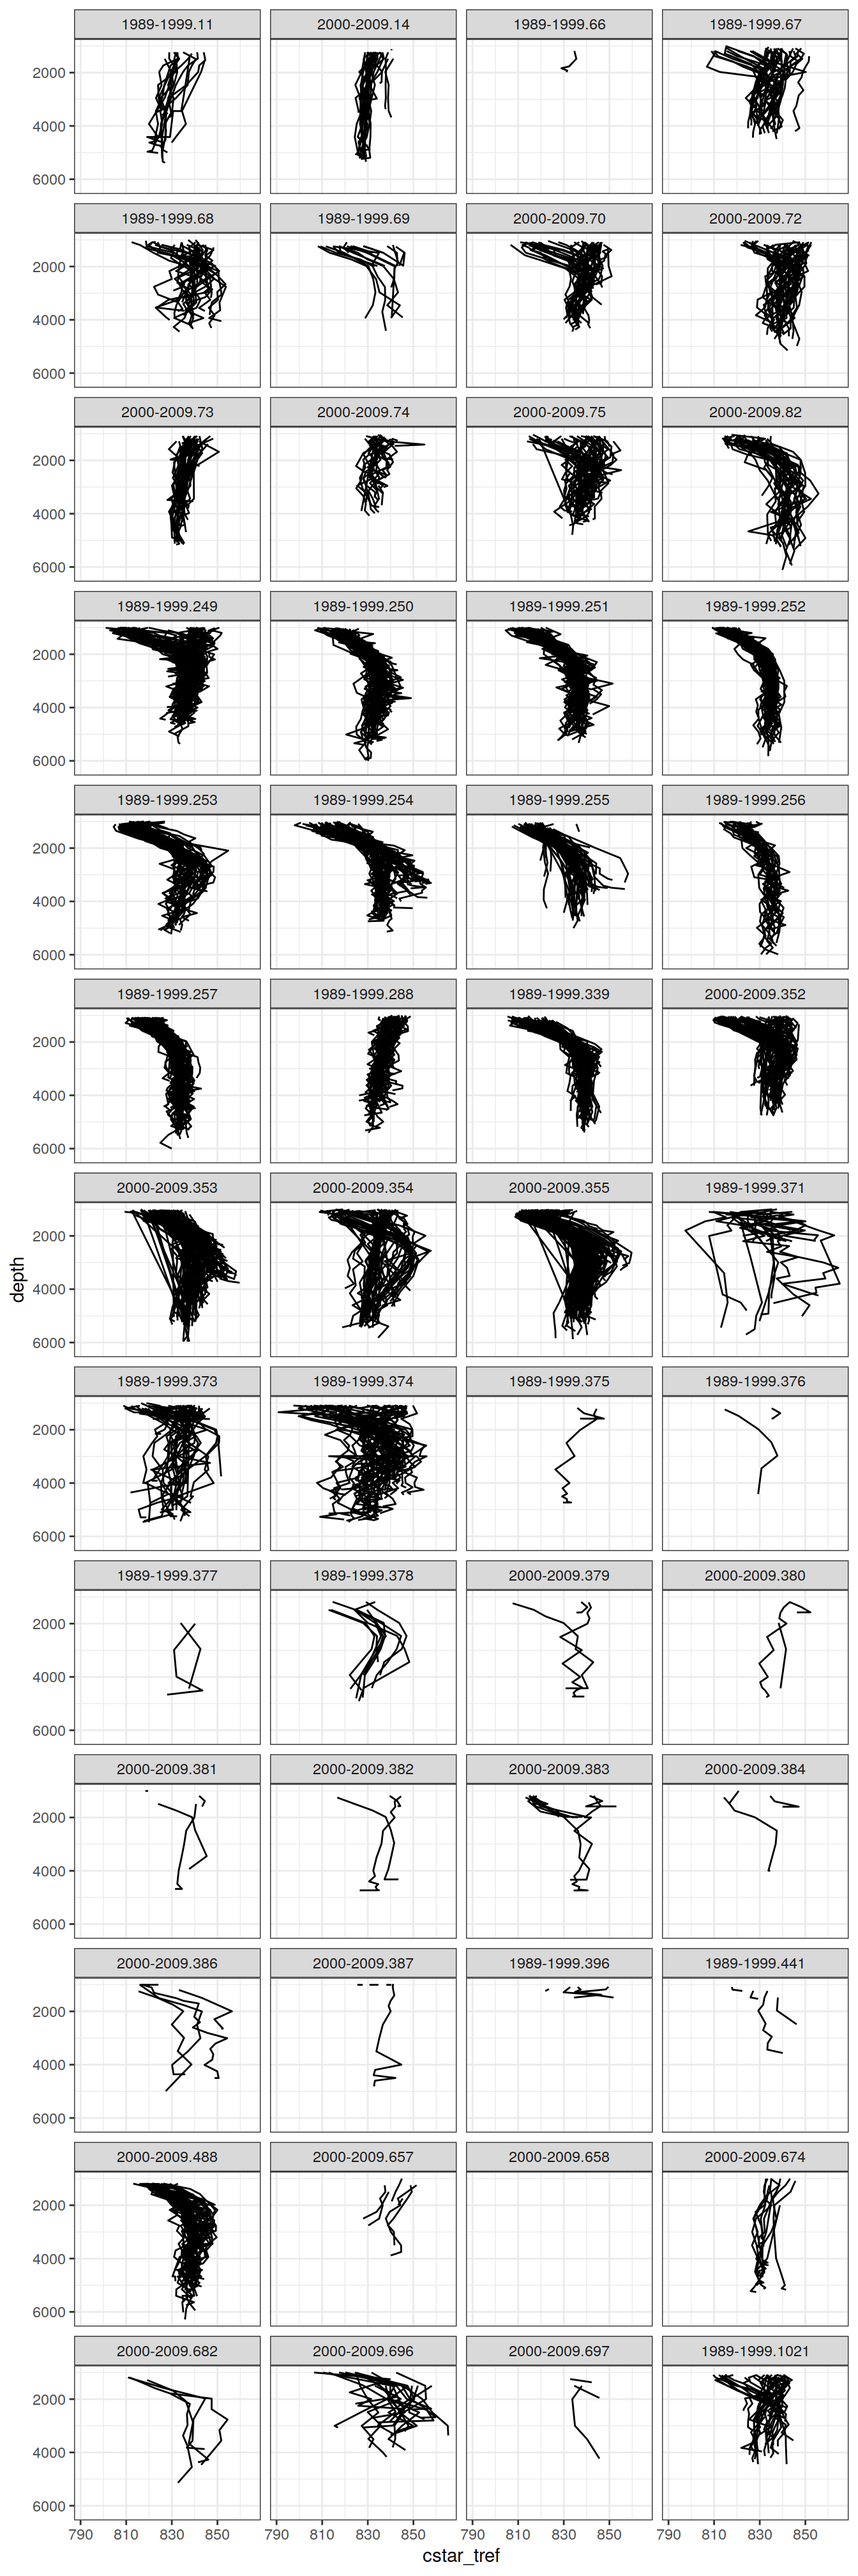
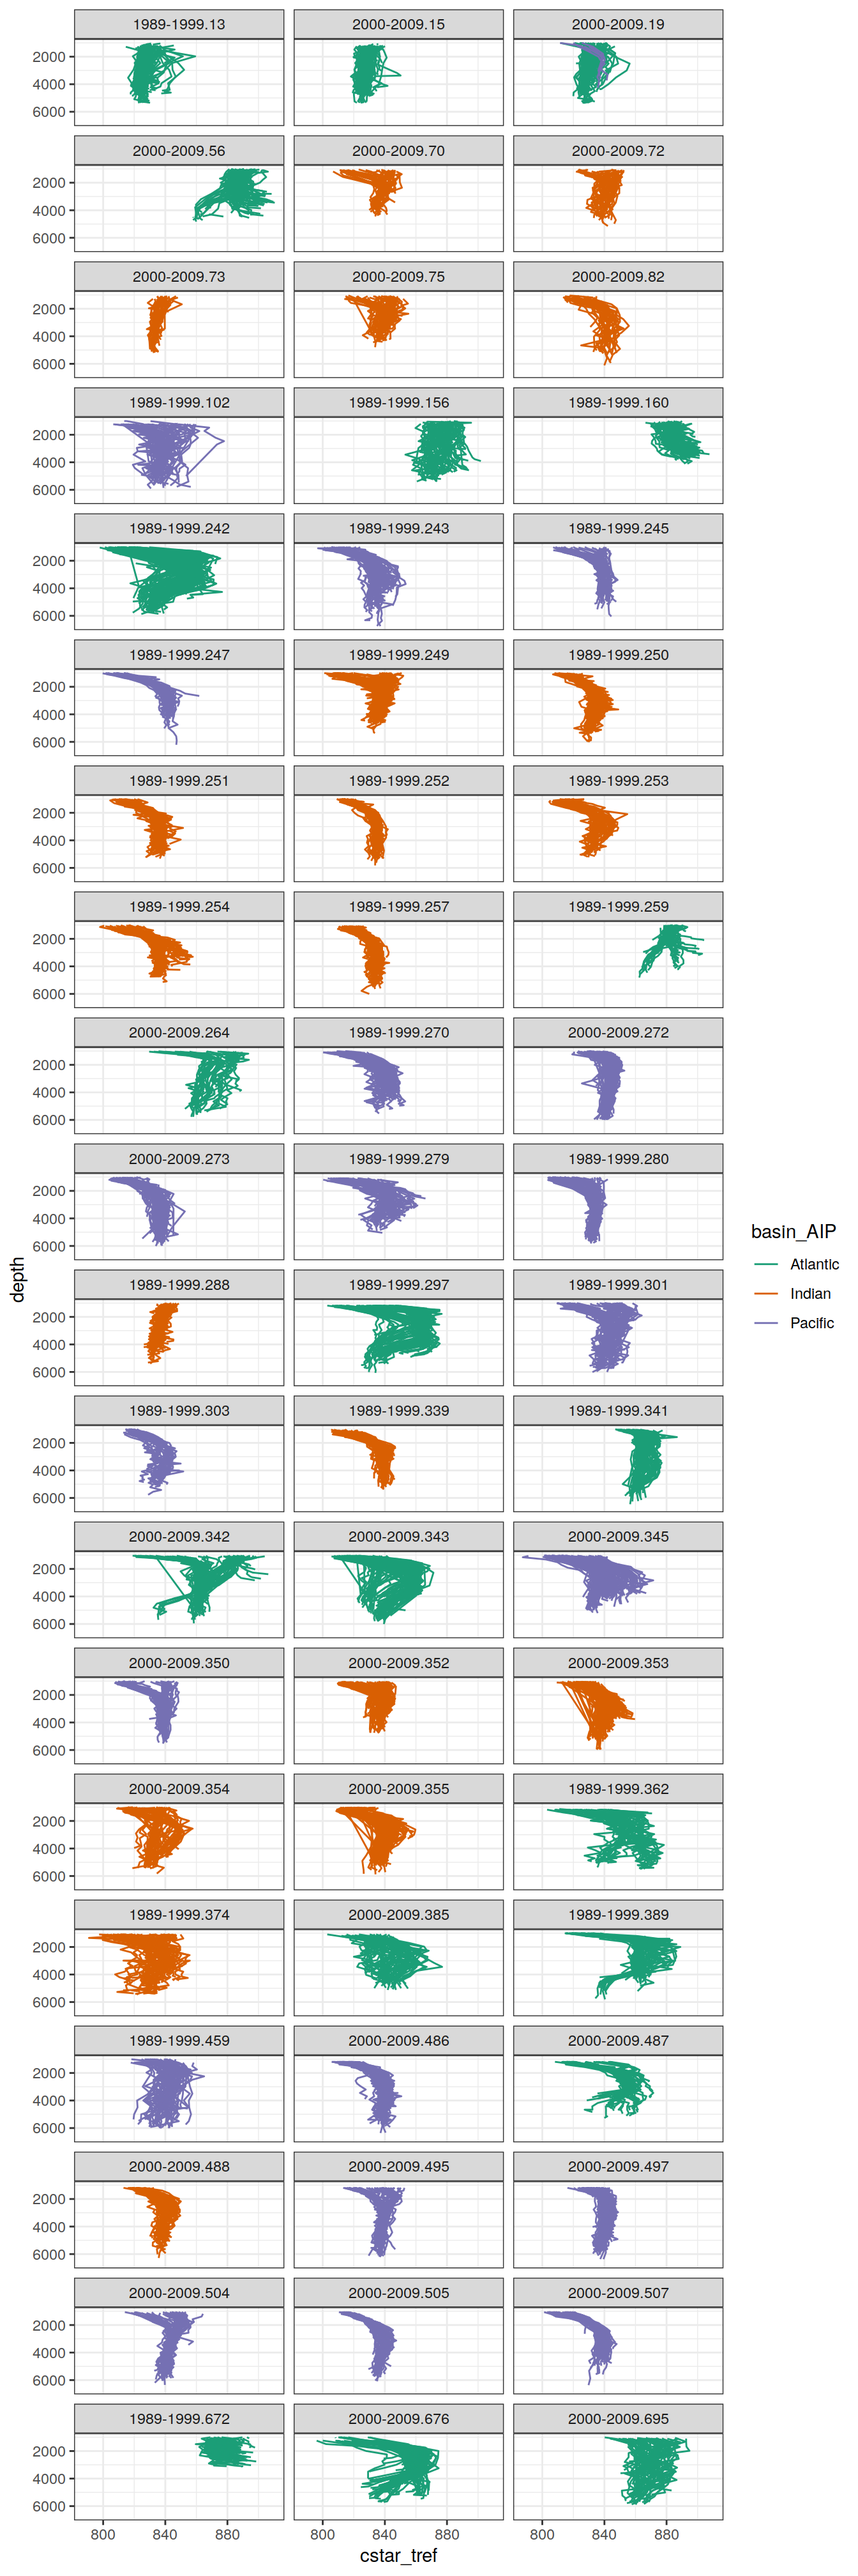
Build site.

diff --git a/docs/eMLR_data_preparation.html b/docs/eMLR_data_preparation.html
@@ -577,16 +577,16 @@ This reproducible <a href="http://rmarkdown.rstudio.com">R Markdown</a> analysis
 <div class="panel panel-default">
 <div class="panel-heading">
 <p class="panel-title">
-<a data-toggle="collapse" data-parent="#workflowr-checks" href="#strongRepositoryversionstrongahrefhttpsgithubcomjensdanielmuelleremlrobsvXXXtreefc1d8fd82f664b92319eb017b6a172c53e5c731dtargetblankfc1d8fda"> <span class="glyphicon glyphicon-ok text-success" aria-hidden="true"></span> <strong>Repository version:</strong> <a href="https://github.com/jens-daniel-mueller/emlr_obs_v_XXX/tree/fc1d8fd82f664b92319eb017b6a172c53e5c731d" target="_blank">fc1d8fd</a> </a>
+<a data-toggle="collapse" data-parent="#workflowr-checks" href="#strongRepositoryversionstrongahrefhttpsgithubcomjensdanielmuelleremlrobsvXXXtree213b967281146de1220fe9c0b08f3b5634dfdf78targetblank213b967a"> <span class="glyphicon glyphicon-ok text-success" aria-hidden="true"></span> <strong>Repository version:</strong> <a href="https://github.com/jens-daniel-mueller/emlr_obs_v_XXX/tree/213b967281146de1220fe9c0b08f3b5634dfdf78" target="_blank">213b967</a> </a>
 </p>
 </div>
[2 lines of base64/hex data omitted]
 <div class="panel-body">
 <p>
 Great! You are using Git for version control. Tracking code development and connecting the code version to the results is critical for reproducibility.
 </p>
 <p>
-The results in this page were generated with repository version <a href="https://github.com/jens-daniel-mueller/emlr_obs_v_XXX/tree/fc1d8fd82f664b92319eb017b6a172c53e5c731d" target="_blank">fc1d8fd</a>. See the <em>Past versions</em> tab to see a history of the changes made to the R Markdown and HTML files.
+The results in this page were generated with repository version <a href="https://github.com/jens-daniel-mueller/emlr_obs_v_XXX/tree/213b967281146de1220fe9c0b08f3b5634dfdf78" target="_blank">213b967</a>. See the <em>Past versions</em> tab to see a history of the changes made to the R Markdown and HTML files.
 </p>
 <p>
 Note that you need to be careful to ensure that all relevant files for the analysis have been committed to Git prior to generating the results (you can use <code>wflow_publish</code> or <code>wflow_git_commit</code>). workflowr only checks the R Markdown file, but you know if there are other scripts or data files that it depends on. Below is the status of the Git repository when the results were generated:
@@ -633,6 +633,40 @@ Message
 </tr>
 </thead>
 <tbody>
+<tr>
+<td>
+Rmd
+</td>
+<td>
+<a href="https://github.com/jens-daniel-mueller/emlr_obs_v_XXX/blob/213b967281146de1220fe9c0b08f3b5634dfdf78/analysis/eMLR_data_preparation.Rmd" target="_blank">213b967</a>
+</td>
+<td>
+jens-daniel-mueller
+</td>
+<td>
+2021-11-05
+</td>
+<td>
+plotted C* gamma slab maps
+</td>
+</tr>
+<tr>
+<td>
+html
+</td>
+<td>
+<a href="https://rawcdn.githack.com/jens-daniel-mueller/emlr_obs_v_XXX/4132be4938e3f277cce6492052d876fde6f74780/docs/eMLR_data_preparation.html" target="_blank">4132be4</a>
+</td>
+<td>
+jens-daniel-mueller
+</td>
+<td>
+2021-11-05
+</td>
+<td>
+Build site.
+</td>
+</tr>
 <tr>
 <td>
 Rmd
@@ -15748,37 +15782,153 @@ rm(GLODAP_grid)</code></pre>
 <h1 number="7"><span class="header-section-number">7</span> C* distributions</h1>
 <div id="profiles" class="section level2" number="7.1">
 <h2 number="7.1"><span class="header-section-number">7.1</span> Profiles</h2>
-<pre class="r"><code>GLODAP_profiles &lt;- GLODAP %&gt;% 
-  filter(basin_AIP == &quot;Indian&quot;,
-         depth &gt; 1000,
+<pre class="r"><code>GLODAP_profiles_IO_sub &lt;- GLODAP %&gt;% 
+  filter(depth &gt; 1000,
          data_source == &quot;obs&quot;) %&gt;% 
-  arrange(cruise, station, depth)
+  count(cruise, basin_AIP, era) %&gt;% 
+  arrange(-n) %&gt;%
+  group_by(basin_AIP, era) %&gt;% 
+  slice_max(n, n = 10) %&gt;% 
+  ungroup() %&gt;% 
+  pull(cruise)
 
-# GLODAP_profiles %&gt;% 
-#   count(cruise, station, depth, cast) %&gt;% 
-#   filter(n &gt; 1)
+GLODAP_profiles &lt;- GLODAP %&gt;%
+  filter(data_source == &quot;obs&quot;,
+         depth &gt; 1000) %&gt;%
+  filter(cruise %in% GLODAP_profiles_IO_sub)
+
+rm(GLODAP_profiles_IO_sub)
 
 GLODAP_profiles %&gt;%
   arrange(depth, station) %&gt;%
   ggplot(aes(cstar_tref, depth,
-             group = interaction(station))) +
-  scale_color_discrete(guide = &quot;none&quot;) +
+             group = interaction(station),
+             col = basin_AIP)) +
+  scale_color_brewer(palette = &quot;Dark2&quot;) +
   geom_path() +
-  # geom_point() +
   scale_y_reverse() +
-  facet_wrap(~ interaction(era, cruise),
-             ncol = 4)</code></pre>
+  facet_wrap(~ interaction(era, cruise), ncol = 3)</code></pre>
 <p><img src="figure/eMLR_data_preparation.Rmd/cstar_profiles-1.png" width="672" style="display: block; margin: auto;" /></p>
+<p>
+<button type="button" class="btn btn-default btn-xs btn-workflowr btn-workflowr-fig" data-toggle="collapse" data-target="#fig-cstar_profiles-1">
+Past versions of cstar_profiles-1.png
+</button>
+</p>
+<div id="fig-cstar_profiles-1" class="collapse">
+<div class="table-responsive">
+<table class="table table-condensed table-hover">
+<thead>
+<tr>
+<th>
+Version
+</th>
+<th>
+Author
+</th>
+<th>
+Date
+</th>
+</tr>
+</thead>
+<tbody>
+<tr>
+<td>
+<a href="https://github.com/jens-daniel-mueller/emlr_obs_v_XXX/blob/4132be4938e3f277cce6492052d876fde6f74780/docs/figure/eMLR_data_preparation.Rmd/cstar_profiles-1.png" target="_blank">4132be4</a>
+</td>
+<td>
+jens-daniel-mueller
+</td>
+<td>
+2021-11-05
+</td>
+</tr>
+</tbody>
+</table>
+</div>
+</div>
 <pre class="r"><code>map +
   geom_tile(data = GLODAP_profiles %&gt;%
               distinct(lat, lon, era, cruise),
             aes(lon, lat)) +
   facet_wrap( ~ interaction(era, cruise),
-              ncol = 4)</code></pre>
+              ncol = 3)</code></pre>
 <p><img src="figure/eMLR_data_preparation.Rmd/cstar_profiles-2.png" width="672" style="display: block; margin: auto;" /></p>
+<p>
+<button type="button" class="btn btn-default btn-xs btn-workflowr btn-workflowr-fig" data-toggle="collapse" data-target="#fig-cstar_profiles-2">
+Past versions of cstar_profiles-2.png
+</button>
+</p>
+<div id="fig-cstar_profiles-2" class="collapse">
+<div class="table-responsive">
+<table class="table table-condensed table-hover">
+<thead>
+<tr>
+<th>
+Version
+</th>
+<th>
+Author
+</th>
+<th>
+Date
+</th>
+</tr>
+</thead>
+<tbody>
+<tr>
+<td>
+<a href="https://github.com/jens-daniel-mueller/emlr_obs_v_XXX/blob/4132be4938e3f277cce6492052d876fde6f74780/docs/figure/eMLR_data_preparation.Rmd/cstar_profiles-2.png" target="_blank">4132be4</a>
+</td>
+<td>
+jens-daniel-mueller
+</td>
+<td>
+2021-11-05
+</td>
+</tr>
+</tbody>
+</table>
 </div>
-<div id="basin-gamma-slab" class="section level2" number="7.2">
-<h2 number="7.2"><span class="header-section-number">7.2</span> basin, gamma slab</h2>
+</div>
+<pre class="r"><code>rm(GLODAP_profiles)</code></pre>
+</div>
+<div id="slab-distribution" class="section level2" number="7.2">
+<h2 number="7.2"><span class="header-section-number">7.2</span> Slab distribution</h2>
+<pre class="r"><code>cstar_grid &lt;- m_grid_horizontal_coarse(GLODAP)
+
+cstar_grid &lt;- cstar_grid %&gt;%
+  group_by(lat_grid, lon_grid, gamma_slab, era, data_source) %&gt;%
+  summarise(cstar_tref = mean(cstar_tref, na.rm = TRUE)) %&gt;%
+  ungroup()
+  
+map +
+  geom_raster(
+    data = cstar_grid %&gt;%
+      filter(data_source == &quot;obs&quot;),
+    aes(lon_grid, lat_grid, fill = cstar_tref)
+  ) +
+  scale_fill_viridis_c() +
+  facet_grid(gamma_slab ~ era)</code></pre>
+<p><img src="figure/eMLR_data_preparation.Rmd/cstar_slab_distribution-1.png" width="672" style="display: block; margin: auto;" /></p>
+<pre class="r"><code>cstar_grid_offset &lt;- cstar_grid %&gt;% 
+  pivot_wider(names_from = era,
+              values_from = cstar_tref) %&gt;% 
+  mutate(delta_cstar := !!sym(tref$era[2]) - !!sym(tref$era[1]))
+
+map +
+  geom_raster(
+    data = cstar_grid_offset %&gt;%
+      filter(data_source == &quot;obs&quot;),
+    aes(lon_grid, lat_grid, fill = delta_cstar)
+  ) +
+  scale_fill_divergent(mid = &quot;grey70&quot;,
+                       na.value = &quot;white&quot;) +
+  facet_grid(gamma_slab ~ .)</code></pre>
+<p><img src="figure/eMLR_data_preparation.Rmd/cstar_slab_distribution-2.png" width="672" style="display: block; margin: auto;" /></p>
+<pre class="r"><code>rm(cstar_grid, cstar_grid_offset)</code></pre>
+</div>
+<div id="basin-gamma-slab" class="section level2" number="7.3">
+<h2 number="7.3"><span class="header-section-number">7.3</span> basin, gamma slab</h2>
 <pre class="r"><code>GLODAP_data_distribution &lt;- GLODAP %&gt;%
   filter(data_source == &quot;obs&quot;) %&gt;%
   select(era,
@@ -22822,8 +22972,8 @@ jens-daniel-mueller
 </div>
 <pre class="r"><code>rm(GLODAP_data_distribution)</code></pre>
 </div>
-<div id="basin-cruise" class="section level2" number="7.3">
-<h2 number="7.3"><span class="header-section-number">7.3</span> basin, cruise</h2>
+<div id="basin-cruise" class="section level2" number="7.4">
+<h2 number="7.4"><span class="header-section-number">7.4</span> basin, cruise</h2>
 <pre class="r"><code>GLODAP_data_distribution_cruise &lt;- GLODAP %&gt;%
   filter(data_source == &quot;obs&quot;) %&gt;%
   select(era,
